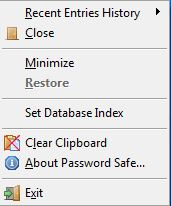
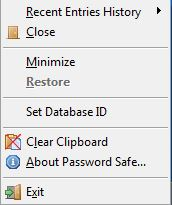
Change DB Index to DB ID and rename source code files appropriately Ensure can't be assigned if no database is open Update Help

Changed region(s): [[0.0, 0.0, 1.0, 0.9951], [0.1462, 0.761, 0.848, 0.8488], [0.9942, 0.8488, 1.0, 1.0]]

diff --git a/help/default/html/system_tray.html b/help/default/html/system_tray.html
@@ -13,14 +13,18 @@
 <table class="MsoNormalTable" style="border: medium none ; border-collapse: collapse;" border="0" cellpadding="0" cellspacing="0">
 <tbody>
 <tr>
-<td ;="" align="center">Unlocked Database</td>
+<td align="center">No database open</td>
 <td style="width: 10px;"></td>
-<td ;="" align="center">Locked Database</td>
+<td align="center">Locked database</td>
+<td style="width: 10px;"></td>
+<td align="center">Unlocked database</td>
 </tr>
 <tr>
-<td><img alt="Unlocked System Tray" src="images/system_tray_unlocked.jpg"></td>
+<td><img alt="Locked System Tray" src="images/system_tray_nodb.jpg"></td>
 <td></td>
-<td><img alt="Locked System Tray" src="images/system_tray_locked.jpg"></td>
+<td><img alt="Unlocked System Tray" src="images/system_tray_locked.jpg"></td>
+<td></td>
+<td><img alt="Locked System Tray" src="images/system_tray_unlocked.jpg"></td>
 </tr>
 </tbody>
 </table>
@@ -30,20 +34,36 @@ database is unlocked) and to unlock the database if locked. It can also minimize
 the main <b>PasswordSafe</b> window and restore it if already minimized but
 not locked.</p>
 
-<h3><a name="SetDBIndex"></a>Set Database Index</h3>
+<h3>Set Database ID</h3>
 
 <p>If you regularly have a number of databases open, after opening a database, you may
-set a unique temporary index (a number between 1 and 99) that will be superimposed on top of
-the System Tray icon. Setting an index of zero will remove this image. An index is reserved
-once assigned to an open database but will be free to be used again either when a new index
-is assigned or the database closed. In addition, the System Tray tooltip has been enhanced
-to show this index and make the text multiline to display the database name.</p>
+set a unique temporary ID (a number between 1 and 99) that will be superimposed on top of
+the System Tray icon. Setting an ID of zero will free up the previous ID and 
+remove the number from this image.</p>
 
-<p>Notes:
+<p>An ID is reserved once assigned to an open database but will be free to be used again
+either when a new ID is assigned or the database is closed. In addition, the System Tray
+tooltip has been enhanced to show this ID and make the text multiline to display the database name.
+
+<br>
+<br>
+
+Notes:
 <ul>
-<li>If the database is locked, the database name will be shown between square brackets.</li>
+<li>An ID can only be assigned to an opened database. When the database is closed, the ID
+is free to be assigned to another open database.</li>
+<li>An ID can't be assigned to two opened databases at the same time.</li>
 <li>The database index can only be changed if the database is unlocked.</li>
+<li>The association of an ID to a particular database is not persistent (remembered) and
+must be reassigned to a database every time it is opened.</li>
+<li>Due to the changes made by Microsoft to the color of the Windows Taskbar and Notification
+Area between releases of Windows and the ability using some applications to change this color,
+a limited number of text colors for the ID are provided to enable the user to select the best
+visible for their environment.</li>
+<li>In the enhanced tooltip, if the database is locked, the database name will be shown between
+square brackets as shown below.</li>
 </ul>
+</p>
 
 <img alt="Database Index" src="images/database_index.jpg">
 <img alt="Database Index2" src="images/database_index2.jpg">

diff --git a/src/ui/Windows/SetDBID.cpp b/src/ui/Windows/SetDBID.cpp
@@ -6,12 +6,12 @@
 * http://www.opensource.org/licenses/artistic-license-2.0.php
 */
 
-// SBIndexDlg.cpp : implementation file
+// SetDBID.cpp : implementation file
 //
 
 #include "stdafx.h"
 
-#include "SBIndexDlg.h"
+#include "SetDBID.h"
 #include "DboxMain.h"
 #include "ThisMfcApp.h"
 #include "SingleInstance.h"
@@ -64,11 +64,11 @@ LRESULT CNPEdit::OnPaste(WPARAM, LPARAM)
   return 1L;
 }
 
-// CSBIndexDlg dialog
+// CSetDBID dialog
 
-IMPLEMENT_DYNAMIC(CSBIndexDlg, CPWDialog)
+IMPLEMENT_DYNAMIC(CSetDBID, CPWDialog)
 
-CSBIndexDlg::CSBIndexDlg(CWnd *pParent, int iDBIndex)
+CSetDBID::CSetDBID(CWnd *pParent, int iDBIndex)
 	: CPWDialog(IDD_SETDBINDEX, pParent), m_pParent((DboxMain *)pParent),
   m_iInitialDBIndex(iDBIndex), m_iDBIndex(iDBIndex), m_iLockedTextColour(0),
   m_iUnLockedTextColour(0), m_bInitDone(false)
@@ -86,11 +86,11 @@ CSBIndexDlg::CSBIndexDlg(CWnd *pParent, int iDBIndex)
   m_clrUnlockedTextOptions[3] = RGB(  1,   1,   1); // Black-ish (if black then would come out transparent)
 }
 
-CSBIndexDlg::~CSBIndexDlg()
+CSetDBID::~CSetDBID()
 {
 }
 
-void CSBIndexDlg::DoDataExchange(CDataExchange* pDX)
+void CSetDBID::DoDataExchange(CDataExchange* pDX)
 {
 	CDialog::DoDataExchange(pDX);
 
@@ -105,7 +105,7 @@ void CSBIndexDlg::DoDataExchange(CDataExchange* pDX)
   DDX_Control(pDX, IDC_UNLOCKEDIMAGE, m_stUnlockedImage);
 }
 
-BEGIN_MESSAGE_MAP(CSBIndexDlg, CDialog)
+BEGIN_MESSAGE_MAP(CSetDBID, CDialog)
   ON_WM_DESTROY()
   ON_WM_CTLCOLOR()
 
@@ -116,9 +116,9 @@ BEGIN_MESSAGE_MAP(CSBIndexDlg, CDialog)
   ON_COMMAND_RANGE(IDC_DBINDEX_TEXTCOLOURUL0, IDC_DBINDEX_TEXTCOLOURUL3, OnSetUnlockedColour)
 END_MESSAGE_MAP()
 
-// CSBIndexDlg message handlers
+// CSetDBID message handlers
 
-BOOL CSBIndexDlg::OnInitDialog()
+BOOL CSetDBID::OnInitDialog()
 {
   CPWDialog::OnInitDialog();
 
@@ -191,7 +191,7 @@ BOOL CSBIndexDlg::OnInitDialog()
   return FALSE;  // return TRUE unless you set the focus to a control
 }
 
-void CSBIndexDlg::OnDestroy()
+void CSetDBID::OnDestroy()
 {
   if (m_bInitDone) {
     m_bmLocked.Detach();
@@ -201,12 +201,12 @@ void CSBIndexDlg::OnDestroy()
   }
 }
 
-void CSBIndexDlg::OnHelp()
+void CSetDBID::OnHelp()
 {
-  ShowHelp(L"::/html/manage_menu.html#SetDBIndex");
+  ShowHelp(L"::/html/system_tray.html");
 }
 
-HBRUSH CSBIndexDlg::OnCtlColor(CDC *pDC, CWnd *pWnd, UINT nCtlColor)
+HBRUSH CSetDBID::OnCtlColor(CDC *pDC, CWnd *pWnd, UINT nCtlColor)
 {
   HBRUSH hbr = CPWDialog::OnCtlColor(pDC, pWnd, nCtlColor);
 
@@ -227,7 +227,7 @@ HBRUSH CSBIndexDlg::OnCtlColor(CDC *pDC, CWnd *pWnd, UINT nCtlColor)
   return hbr;
 }
 
-void CSBIndexDlg::OnOK()
+void CSetDBID::OnOK()
 {
   UpdateData(TRUE);
 
@@ -257,12 +257,12 @@ void CSBIndexDlg::OnOK()
   CPWDialog::EndDialog(m_iDBIndex);
 }
 
-void CSBIndexDlg::OnCancel()
+void CSetDBID::OnCancel()
 {
   CPWDialog::EndDialog(-1);
 }
 
-void CSBIndexDlg::OnSetLockedColour(UINT /*nID*/)
+void CSetDBID::OnSetLockedColour(UINT /*nID*/)
 {
   UpdateData(TRUE);
 
@@ -276,7 +276,7 @@ void CSBIndexDlg::OnSetLockedColour(UINT /*nID*/)
   }
 }
 
-void CSBIndexDlg::OnSetUnlockedColour(UINT /*nID*/)
+void CSetDBID::OnSetUnlockedColour(UINT /*nID*/)
 {
   UpdateData(TRUE);
 
@@ -290,7 +290,7 @@ void CSBIndexDlg::OnSetUnlockedColour(UINT /*nID*/)
   }
 }
 
-void CSBIndexDlg::SetBitmapBackground(CBitmap &bm)
+void CSetDBID::SetBitmapBackground(CBitmap &bm)
 {
   // Get how many pixels in the bitmap
   BITMAP bmInfo;
@@ -318,7 +318,7 @@ void CSBIndexDlg::SetBitmapBackground(CBitmap &bm)
   }
 }
 
-void CSBIndexDlg::CreateIndexBitmap(const int iIndex, const COLORREF clrText, const bool bLocked)
+void CSetDBID::CreateIndexBitmap(const int iIndex, const COLORREF clrText, const bool bLocked)
 {
   CString csValue;
   csValue.Format(L"%2d", iIndex);

diff --git a/src/ui/Windows/SystemTray.cpp b/src/ui/Windows/SystemTray.cpp
@@ -562,14 +562,6 @@ LRESULT CSystemTray::OnTrayNotification(WPARAM wParam, LPARAM lParam)
                                  ID_MENUITEM_TRAYUNLOCK, csUnLock);
         // Can't do Minimize if locked
         pContextMenu->RemoveMenu(ID_MENUITEM_MINIMIZE, MF_BYCOMMAND);
-        // Don't allow set/unset/change of DB index if locked. Would like to disable it...
-        // but MFC seems to make this difficult - delete it and following separator instead
-        int pos = app.FindMenuItem(pContextMenu, ID_MENUITEM_SETDBINDEX);
-        if (pos > -1) {
-          // Delete the menu item and its following separator
-          pContextMenu->RemoveMenu(pos, MF_BYPOSITION);
-          pContextMenu->RemoveMenu(pos, MF_BYPOSITION);
-        }
         break;
       }
       case DboxMain::CLOSED:
@@ -581,6 +573,18 @@ LRESULT CSystemTray::OnTrayNotification(WPARAM wParam, LPARAM lParam)
         break;
       default:
         break;
+    }
+
+    if (app_state == DboxMain::LOCKED || app_state == DboxMain::CLOSED) {
+      // Don't allow set/unset/change of DB ID if locked. Would like to disable it...
+      // but MFC seems to make this difficult - delete it and following separator instead
+      // Also, don't allow a DB ID if no DB is open!
+      int pos = app.FindMenuItem(pContextMenu, ID_MENUITEM_SETDBID);
+      if (pos > -1) {
+        // Delete the menu item and its following separator
+        pContextMenu->RemoveMenu(pos, MF_BYPOSITION);
+        pContextMenu->RemoveMenu(pos, MF_BYPOSITION);
+      }
     }
 
     if (CPWDialog::GetDialogTracker()->AnyOpenDialogs()) {

diff --git a/src/ui/Windows/DboxMain.cpp b/src/ui/Windows/DboxMain.cpp
@@ -28,7 +28,7 @@
 #include "GeneralMsgBox.h"
 #include "InfoDisplay.h"
 #include "PasskeySetup.h"
-#include "SBIndexDlg.h"
+#include "SetDBID.h"
 
 // Set Ctrl/Alt/Shift strings for menus
 #include "MenuShortcuts.h"
@@ -454,7 +454,7 @@ BEGIN_MESSAGE_MAP(DboxMain, CDialog)
   ON_COMMAND(ID_MENUITEM_OPTIONS, OnOptions)
   ON_COMMAND(ID_MENUITEM_GENERATEPASSWORD, OnGeneratePassword)
   ON_COMMAND(ID_MENUITEM_YUBIKEY, OnYubikey)
-  ON_COMMAND(ID_MENUITEM_SETDBINDEX, OnSetDBIndex)
+  ON_COMMAND(ID_MENUITEM_SETDBID, OnSetDBIndex)
   ON_COMMAND(ID_MENUITEM_PSWD_POLICIES, OnManagePasswordPolicies)
 
   // Help Menu
@@ -686,7 +686,7 @@ const DboxMain::UICommandTableEntry DboxMain::m_UICommandTable[] = {
   {ID_MENUITEM_OPTIONS, true, true, true, true},
   {ID_MENUITEM_GENERATEPASSWORD, true, true, true, true},
   {ID_MENUITEM_YUBIKEY, true, false, true, false},
-  {ID_MENUITEM_SETDBINDEX, true, true, true, false},
+  {ID_MENUITEM_SETDBID, true, true, true, false},
   {ID_MENUITEM_PSWD_POLICIES, true, true, true, false},
   // Help Menu
   {ID_MENUITEM_PWSAFE_WEBSITE, true, true, true, true},
@@ -1386,7 +1386,7 @@ int DboxMain::SetClosedTrayIcon(int &iData, bool bSet)
 
 void DboxMain::OnSetDBIndex()
 {
-  CSBIndexDlg SBIdlg((CWnd *)this, m_iDBIndex);
+  CSetDBID SBIdlg((CWnd *)this, m_iDBIndex);
 
   INT_PTR rc = SBIdlg.DoModal();
 

diff --git a/src/ui/Windows/SetDBID.h b/src/ui/Windows/SetDBID.h
@@ -7,13 +7,13 @@
 */
 #pragma once
 
-/// \file SBIndexDlg.h
+/// \file SetDBID.h
 //
 
 #include "PWDialog.h"
 #include "ControlExtns.h"
 
-// CSBIndexDlg dialog
+// CSetDBID dialog
 
 class DboxMain;
 
@@ -32,13 +32,13 @@ protected:
   DECLARE_MESSAGE_MAP()
 };
 
-class CSBIndexDlg : public CPWDialog
+class CSetDBID : public CPWDialog
 {
-	DECLARE_DYNAMIC(CSBIndexDlg)
+	DECLARE_DYNAMIC(CSetDBID)
 
 public:
-	CSBIndexDlg(CWnd *pParent, int iIndex = 0);
-	virtual ~CSBIndexDlg();
+	CSetDBID(CWnd *pParent, int iIndex = 0);
+	virtual ~CSetDBID();
 
 // Dialog Data
 	enum { IDD = IDD_SETDBINDEX };

diff --git a/src/ui/Windows/resource2.h b/src/ui/Windows/resource2.h
@@ -191,7 +191,7 @@ Do NOT change the value of any resource used in a menu from V3.17 onwards.
 #define ID_MENUITEM_MINIMIZE            32253
 #define ID_MENUITEM_RESTORE             32254
 #define ID_MENUITEM_TRAYSELECT          32255
-#define ID_MENUITEM_SETDBINDEX          32256
+#define ID_MENUITEM_SETDBID             32256
 
 // Main Toolbar - only those items not also menu items
 // or only on mouse right-click popup menu

diff --git a/src/ui/Windows/DboxMain.h b/src/ui/Windows/DboxMain.h
@@ -454,7 +454,7 @@ public:
   {return m_core.GetAllMediaTypes();}
 
  protected:
-   friend class CSBIndexDlg;  // To access icon creation etc.
+   friend class CSetDBID;  // To access icon creation etc.
 
    // ClassWizard generated virtual function overrides
    //{{AFX_VIRTUAL(DboxMain)
